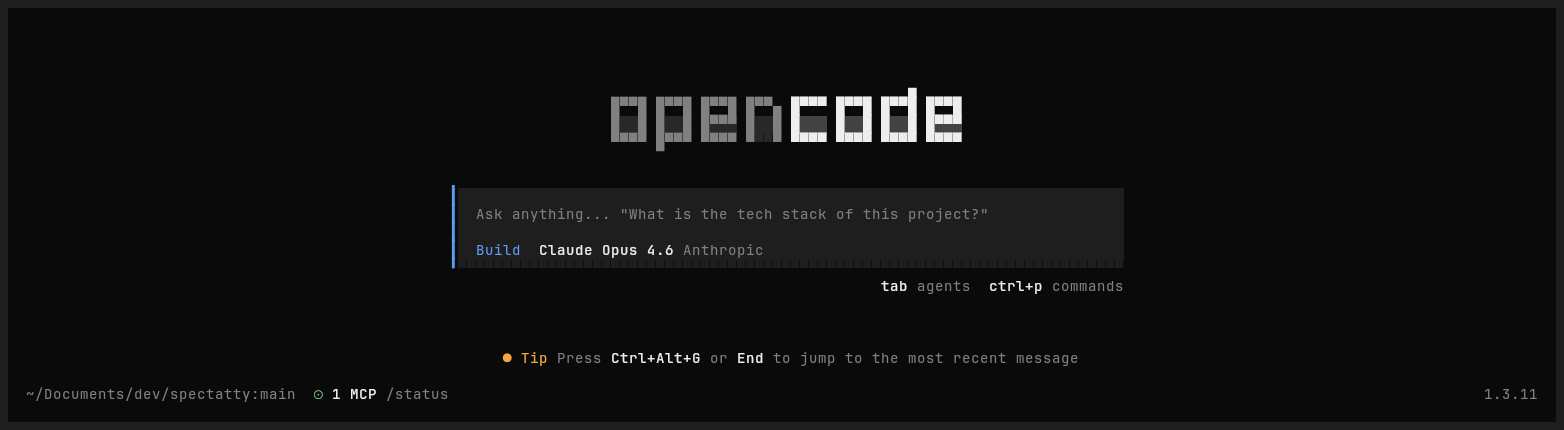
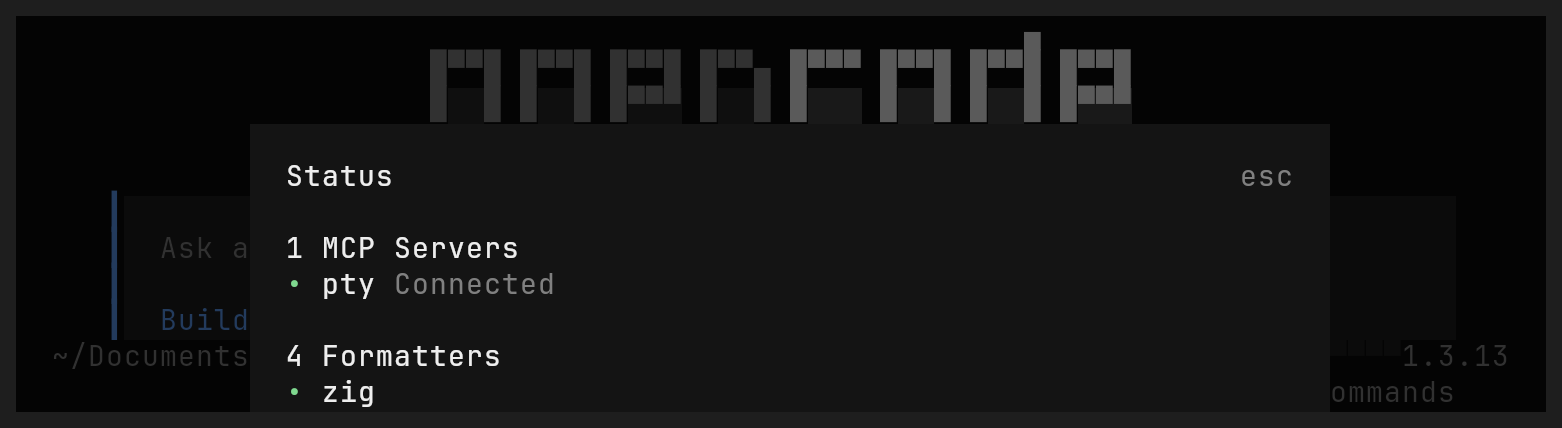
docs: update opencode screenshots to MCP view and fix attach key bindings
- Replace opencode-spectatty.png with MCP status page screenshot showing
  spectatty MCP server connected (more useful than the empty landing page)
- Replace opencode-tmux.png with v2 screenshot showing the MCPs panel
- Fix attach mode docs: prefix is Ctrl+A (not Ctrl+]), document l/u/s/d chords

diff --git a/README.md b/README.md
@@ -100,7 +100,7 @@ spectatty <subcommand>
 | `mcp`                              | Start the MCP server on stdio                                                                  |
 | `server start/stop/status`         | Manage the background daemon                                                                   |
 | `ctl <subcommand>`                 | Control terminal sessions (mirrors all MCP tools - see below)                                 |
-| `attach <sessionId>`               | Attach your terminal to a live session. Ctrl+] then `d` to detach.                             |
+| `attach <sessionId>`               | Attach your terminal to a live session. Uses **Ctrl+A** as a prefix key for control commands - press Ctrl+A then: `d` to detach, `l` to acquire the agent lock (blocks agent writes so you can type freely), `u` to release the lock, `s` to take a screenshot while locked. Send a literal Ctrl+A by pressing Ctrl+A twice. If you get stuck, Ctrl+A then `d` always exits. |
 | `tail <file.cast>`                 | Live-tail an asciicast recording as it's being written                                         |
 | `to-gif <input.cast> <output.gif>` | Convert a recording to an animated GIF (uses `agg` if available, JS fallback otherwise)        |
 | `to-mp4 <input.cast> <output.mp4>` | Convert a recording to MP4 (uses `ffmpeg` if available, WASM fallback otherwise)               |
